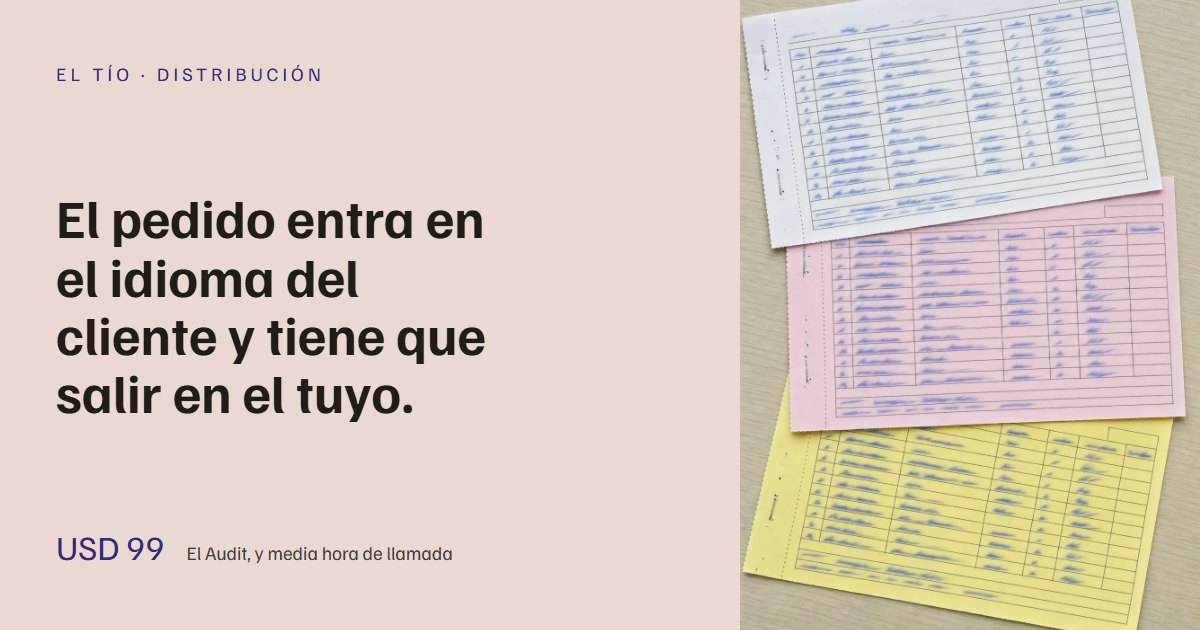
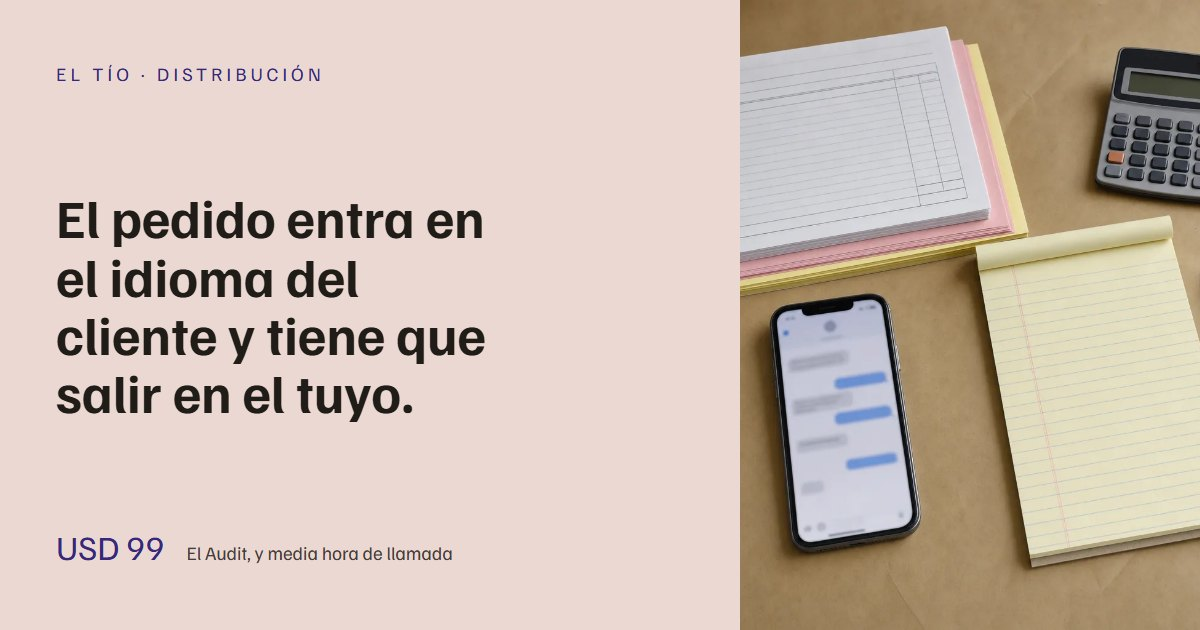
feat: las seis fotografias del trabajo de una distribuidora
Sale del generador. Cada una donde su parrafo la pide: el mostrador, el pasillo, el carro y
la carga en la tira de talones, el telefono con el pedido en como llega un pedido, y el
remito pegado a la caja en el cierre.

Medido a 1440, 390 y 320x256: cero desborde, cero textos encimados, cero errores de pagina
y ningun recurso que falle. Contraste en verde.

diff --git a/distribucion/index.html b/distribucion/index.html
@@ -50,7 +50,7 @@ y que alguien le manda el precio.</div>
   <div class="talonario">
     <div class="partido">
       <figure class="evidencia">
-        <img src="../assets/di-juego-de-tres-copias.webp" alt="Juego de tres hojas de talonario autocopiativo abiertas en abanico sobre una mesa" width="1024" height="1536" fetchpriority="high">
+        <img src="../assets/di-pedido-telefono.webp" srcset="../assets/di-pedido-telefono-480.webp 480w, ../assets/di-pedido-telefono-768.webp 768w, ../assets/di-pedido-telefono.webp 1024w" sizes="(max-width: 860px) 92vw, 34vw" alt="Un teléfono con la conversación abierta sobre un escritorio, al lado de un anotador en blanco y un juego de comprobantes de tres copias" width="1024" height="1536" fetchpriority="high">
         <figcaption>Original, duplicado y triplicado: una escritura, tres destinos</figcaption>
       </figure>
       <div class="medida-lista">
@@ -131,6 +131,22 @@ cantidad | detalle | cod
   </div>
 </section>
 
+<section class="hoja" id="recorrido">
+  <div class="talonario">
+    <p class="rotulo">DESPUÉS DE LA TRADUCCIÓN</p>
+    <h2 style="margin-top:var(--u2)">El pedido recién empieza a moverse cuando alguien lo entendió.</h2>
+    <p style="margin-top:var(--u2)">Todo lo que viene después ya está resuelto en tu casa:
+    se busca, se arma y se despacha. Lo que no está resuelto es el renglón que nadie pudo
+    traducir, y ese frena el pedido entero.</p>
+    <div class="tira-talones">
+      <figure class="talon" data-revela><span class="talon-destino">Entra</span><img src="../assets/di-mostrador-pedidos.webp" srcset="../assets/di-mostrador-pedidos-480.webp 480w, ../assets/di-mostrador-pedidos-768.webp 768w, ../assets/di-mostrador-pedidos-1200.webp 1200w, ../assets/di-mostrador-pedidos.webp 1536w" sizes="(max-width: 760px) 92vw, 24vw" alt="Mostrador de pedidos de una distribuidora, con el pinche de comprobantes, el teléfono y la calculadora" width="1536" height="1024" loading="lazy" decoding="async"><figcaption>El mostrador</figcaption></figure>
+      <figure class="talon" data-revela><span class="talon-destino">Se busca</span><img src="../assets/di-pasillo-deposito.webp" srcset="../assets/di-pasillo-deposito-480.webp 480w, ../assets/di-pasillo-deposito-768.webp 768w, ../assets/di-pasillo-deposito.webp 1024w" sizes="(max-width: 760px) 92vw, 24vw" alt="Pasillo de depósito con estanterías de cajas de cartón a los dos lados y marcas de circulación en el piso" width="1536" height="1024" loading="lazy" decoding="async"><figcaption>El pasillo</figcaption></figure>
+      <figure class="talon" data-revela><span class="talon-destino">Se arma</span><img src="../assets/di-armado-pedido.webp" srcset="../assets/di-armado-pedido-480.webp 480w, ../assets/di-armado-pedido-768.webp 768w, ../assets/di-armado-pedido-1200.webp 1200w, ../assets/di-armado-pedido.webp 1536w" sizes="(max-width: 760px) 92vw, 24vw" alt="Carro de armado a medio cargar en un pasillo, con cajas apiladas y una planilla apoyada encima" width="1536" height="1024" loading="lazy" decoding="async"><figcaption>El carro</figcaption></figure>
+      <figure class="talon" data-revela><span class="talon-destino">Se despacha</span><img src="../assets/di-carga-camion.webp" srcset="../assets/di-carga-camion-480.webp 480w, ../assets/di-carga-camion-768.webp 768w, ../assets/di-carga-camion-1200.webp 1200w, ../assets/di-carga-camion.webp 1536w" sizes="(max-width: 760px) 92vw, 24vw" alt="Parte trasera de un camión de reparto cargándose en el muelle, con las cajas apiladas adentro" width="1536" height="1024" loading="lazy" decoding="async"><figcaption>La carga</figcaption></figure>
+    </div>
+  </div>
+</section>
+
 <section class="hoja" id="base">
   <div class="talonario">
     <div class="medida-lista">
@@ -176,7 +192,7 @@ cantidad | detalle | cod
       </table>
     </div>
     <figure class="evidencia" style="margin-top:var(--u4)">
-      <img src="../assets/di-planilla-de-carga.webp" alt="Planilla de carga de reparto sobre un mostrador de depósito" width="1536" height="1024" loading="lazy">
+      <img src="../assets/di-planilla-de-carga.webp" srcset="../assets/di-planilla-de-carga-480.webp 480w, ../assets/di-planilla-de-carga-768.webp 768w, ../assets/di-planilla-de-carga-1200.webp 1200w, ../assets/di-planilla-de-carga.webp 1536w" alt="Planilla de carga de reparto sobre un mostrador de depósito" width="1536" height="1024" loading="lazy">
       <figcaption>La planilla de carga: no es una lista, es una resta</figcaption>
     </figure>
   </div>
@@ -186,7 +202,7 @@ cantidad | detalle | cod
   <div class="talonario">
     <div class="partido">
       <figure class="evidencia">
-        <img src="../assets/di-sello-de-conforme.webp" alt="Sello de goma con la leyenda de conformidad, junto a un remito" width="1024" height="1024" loading="lazy">
+        <img src="../assets/di-remito-caja.webp" srcset="../assets/di-remito-caja-480.webp 480w, ../assets/di-remito-caja-768.webp 768w, ../assets/di-remito-caja-1200.webp 1200w, ../assets/di-remito-caja.webp 1536w" sizes="(max-width: 860px) 92vw, 34vw" alt="Caja de cartón con el sobre del remito pegado arriba, en el piso del depósito" width="1024" height="1024" loading="lazy">
         <figcaption>Nada avanza sin que una persona lo apruebe</figcaption>
       </figure>
       <div>
@@ -222,7 +238,7 @@ cantidad | detalle | cod
       <div class="medida-talon"><h3 style="text-transform:none;letter-spacing:0">Customer Finder</h3><p style="margin-top:var(--u1);font-size:15px" class="suave">Qué cuentas B2B parecidas a las buenas todavía no compran, según lo que la empresa distribuye.</p></div>
     </div>
     <figure class="evidencia" style="margin-top:var(--u5)">
-      <img src="../assets/di-lista-de-precios-impresa.webp" alt="Lista de precios impresa con sus columnas de bonificación, sobre un escritorio" width="1536" height="1024" loading="lazy">
+      <img src="../assets/di-lista-de-precios-impresa.webp" srcset="../assets/di-lista-de-precios-impresa-480.webp 480w, ../assets/di-lista-de-precios-impresa-768.webp 768w, ../assets/di-lista-de-precios-impresa-1200.webp 1200w, ../assets/di-lista-de-precios-impresa.webp 1536w" alt="Lista de precios impresa con sus columnas de bonificación, sobre un escritorio" width="1536" height="1024" loading="lazy">
       <figcaption>La lista se lee de derecha a izquierda: la verdad está en las columnas de bonificación</figcaption>
     </figure>
   </div>
@@ -291,7 +307,7 @@ cantidad | detalle | cod
       <a class="boton" style="background:transparent;color:var(--sello);border:1px solid var(--sello)" href="#auditamos">Ver las siete áreas</a>
     </p>
     <figure class="evidencia" style="margin-top:var(--u5)">
-      <img src="../assets/di-bultos-y-unidades.webp" alt="Bultos cerrados y unidades sueltas del mismo producto, sobre un pallet" width="1536" height="1024" loading="lazy">
+      <img src="../assets/di-bultos-y-unidades.webp" srcset="../assets/di-bultos-y-unidades-480.webp 480w, ../assets/di-bultos-y-unidades-768.webp 768w, ../assets/di-bultos-y-unidades-1200.webp 1200w, ../assets/di-bultos-y-unidades.webp 1536w" alt="Bultos cerrados y unidades sueltas del mismo producto, sobre un pallet" width="1536" height="1024" loading="lazy">
       <figcaption>El bulto es tu unidad. La unidad suelta es la de tu cliente.</figcaption>
     </figure>
   </div>

diff --git a/distribucion.css b/distribucion.css
@@ -517,3 +517,53 @@ html:not(.js) [data-revela] { opacity: 1; transform: none; }
 @media (prefers-reduced-motion: reduce) {
   [data-revela] { opacity: 1; transform: none; transition: none; }
 }
+
+
+/* ------------------------------------------------------------------ el recorrido
+   Las cuatro estaciones por las que pasa un pedido, como una fila de talones. Cada
+   uno lleva su rotulo de destino arriba, igual que las tres copias del hero.
+
+   No es la banda de cuatro piezas de hospitality ni el renglon con foto de fitness:
+   es el talon, y solo esta hoja lo tiene. Tres verticales resolviendo su fotografia
+   con el mismo componente serian tres paginas iguales con distinto color, que es el
+   problema que este rediseno vino a resolver, y hay un test que lo mide. */
+
+.tira-talones {
+  display: grid;
+  grid-template-columns: repeat(4, minmax(0, 1fr));
+  gap: var(--u2);
+  margin-top: var(--u4);
+}
+.talon {
+  margin: 0;
+  background: var(--original);
+  border: 1px solid var(--filete);
+  padding: var(--u1);
+}
+.talon-destino {
+  display: block;
+  font-family: var(--dato);
+  font-size: 11px;
+  letter-spacing: 0.14em;
+  text-transform: uppercase;
+  color: var(--sello);
+  padding-bottom: var(--u1);
+  border-bottom: 1px dashed var(--filete);
+  margin-bottom: var(--u1);
+}
+.talon img {
+  width: 100%;
+  height: auto;
+  aspect-ratio: 3 / 2;
+  object-fit: cover;
+  filter: saturate(0.86);
+}
+.talon figcaption {
+  font-family: var(--display);
+  font-weight: 600;
+  font-size: 15px;
+  color: var(--tinta);
+  margin-top: var(--u1);
+}
+@media (max-width: 980px) { .tira-talones { grid-template-columns: repeat(2, minmax(0, 1fr)); } }
+@media (max-width: 560px) { .tira-talones { grid-template-columns: 1fr; } }
